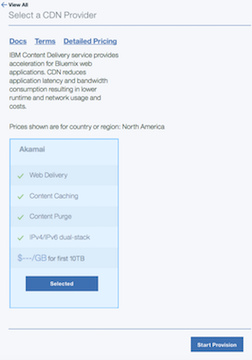
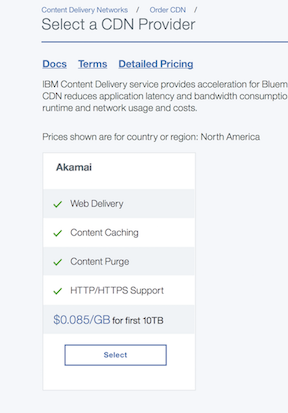
updates
updates

Changed region(s): [[0.0, 0.0, 1.0, 0.9778]]

diff --git a/how-to-order.md b/how-to-order.md
@@ -2,7 +2,7 @@
 
 copyright:
   years: 2017
-lastupdated: "2017-09-10"
+lastupdated: "2018-01-16"
 
 ---
 
@@ -20,47 +20,66 @@ Here you'll learn how to order a Content Delivery Network (CDN). Your CDN can be
 
 ## From the Control Portal:
 
-1. To begin, log on to the [Customer Portal ![External link icon](../../icons/launch-glyph.svg "External link icon")](https://control.softlayer.com/) using your unique credentials.
+**Step 1:**
 
-2. From the navigation bar at the top of the display, select **Network -> CDN**.
+To begin, log on to the [Customer Portal ![External link icon](../../icons/launch-glyph.svg "External link icon")](https://control.softlayer.com/) using your unique credentials.
+
+**Step 2:**
+
+From the navigation bar at the top of the display, select **Network -> CDN**.
 
    ![Network menu options](images/network-cdn.png)
 
-3. On the **Content Delivery Networks** page, select the **Order CDN** button in the top right corner.
+**Step 3:**
 
-	![Select order CDN](images/order-cdn-button.png)
+On the **Content Delivery Networks** page, select the **Order CDN** button in the top right corner.
+
+   ![Select order CDN](images/order-cdn-button.png)
 
 ## From the Bluemix Portal:
 
-1. Log on the [Bluemix Portal](https://www.ibm.com/cloud-computing/bluemix/)
+**Step 1:**
 
-2. Click on [IBM Bluemix Catalog](https://console.bluemix.net/catalog/). From the left-hand navigation bar, select **Network**.
+Log on the [Bluemix Portal](https://www.ibm.com/cloud-computing/bluemix/)
+
+**Step 2:**
+
+Click on [IBM Bluemix Catalog](https://console.bluemix.net/catalog/). From the left-hand navigation bar, select **Network**.
 
    ![Bluemix CDN Navigation](images/bluemix_navigation.png)
 
-3. Click on the **CDN Tile**, which takes you to the Vendor Selection screen.
+**Step 3:**
+
+Click on the **CDN Tile**, which takes you to the Vendor Selection screen.
 
    ![Bluemix CDN Icon](images/bluemix_tile.png)
 
-4. From the **Select a CDN Provider** screen, choose among the CDN provider options. Click the **Selected** button at the bottom of the screen to confirm your selected options, then click **Start Provision**, to start the provisioning process.
 
-	![Select CDN provider](images/newReducedSizeVendorSelectAndProvision.png)
+**Step 4:**
+
+From the **Select a CDN Provider** screen, choose among the CDN provider options. Click the **Select** button to confirm your selected options, then click **Start Provision** at the bottom right of your screen, to start the provisioning process.  
+       ![Select CDN provider](images/Vendor_Select_And_Provision.png)
 	
-5. Fill out the **Configure Name** field: 
-      * Specify the _hostname_ (**required**), which serves as the primary identifier for your CDN (for example, _example.testingcdn.net_).
-      * Optionally, you may provide a custom _CNAME_ (such as _myfirstcdn.cdnedge.bluemix.net_). If no CNAME is provided, one will be created for you. <validation information to be included here>
-      
-      ![Configure Name](images/configure-hostname-cname.png)
+**Step 5:**
 
-**Note**: Use of an inappropriate CNAME may lead to termination of services. 
+Fill out the **Configure Name** field:  
 
-6. Fill out the **Configure Your Origin** field: To configure this field, you must select either the **Server** or the **Object Storage** option. (Specifying the **Path** is optional. <validation information>)
+  * Specify the **Hostname** (**required**), which serves as the primary identifier for your CDN (for example, _example.testingcdn.net_).  
+  * Optionally, you may provide a custom **CNAME** (such as _myfirstcdn.cdnedge.bluemix.net_). If no CNAME is provided, one will be created for you. <validation information to be included here>  
+    
+       ![Configure Name](images/configure-hostname-cname.png)  
+       
+    **Note**: Use of an inappropriate CNAME may lead to termination of services. 
+
+**Step 6:**
+
+Fill out the **Configure Your Origin** field: To configure this field, you must select either the **Server** or the **Object Storage** option. (Specifying the **Path** is optional. <validation information>)
 		
   * **The Server Option**: If you select the **Server** option, enter the hostname or IP address of the Origin Server from which data should be cached. 
       * You must specify the **Origin Server Address** (hostname or IPv4 address of the Origin Server) if you select this option. If **HTTPS port** is selected, the **Origin Server Address** must be hostname and not IP address.
       * You may also provide an **HTTP port**, an **HTTPS port**, or both. These fields indicate which protocol and port number can be used to contact the Origin Server. For non-default port numbers, please refer to [the FAQ](faq.md) for a list of allowed port numbers.
 
-	   ![Configure origin server](images/new-configure-origin-server.png)
+	     ![Configure origin server](images/new-configure-origin-server.png)
 		
   * **The Object Storage Option**: If you select the **Object Storage** option, you must provide the following information:
       * the **Endpoint** from which to fetch the Object,
@@ -69,13 +88,16 @@ Here you'll learn how to order a Content Delivery Network (CDN). Your CDN can be
       * You also may specify the file extensions, separated by commas, that can be used in the CDN service.(If no file name extensions are specified, all file extensions are allowed.)
       * You must set the **Access Control List** (ACL) for each **Object** in your **Bucket** to "public-read".
 		
-	   ![Configure object storage](images/new-configure-origin-object-storage.png)
+	     ![Configure object storage](images/new-configure-origin-object-storage.png)
 
-7. Configure the **Other Options** field: This section contains configuration options for the **Serve Stale Content** field and the **Respect Headers** field.
+**Step 7:**
+
+Configure the **Other Options** field: This section contains configuration options for the **Respect Headers** field.
     
-     * The **Serve Stale Content** field: **Serve Stale Content** is a Boolean value that indicates whether to serve cached content that has expired, in case the origin server cannot be reached. Because of a current limitation, **Serve Stale Content** functionality is enabled by default, regardless of whether a user sets it to **On** or **Off**.
-     * The **Respect Headers** field: When the **Respect Headers** option is **On**, the TTL settings defined in header by the Origin will override the default CDN TTL. **Respect Headers** is set to **On** by default, but you must configure this field.
-
-		![Other options](images/other-options.png)
+   * When the **Respect Headers** option is **On**, the TTL settings defined in header by the Origin will override the default CDN TTL. **Respect Headers** is set to **On** by default, but you must configure this field.  
+   
+        ![Other options](images/other-options.png)
 		
-8. Select the **Create** button in the bottom right corner to create your CDN.
+**Step 8:**
+
+Select the **Create** button in the bottom right corner to create your CDN.
